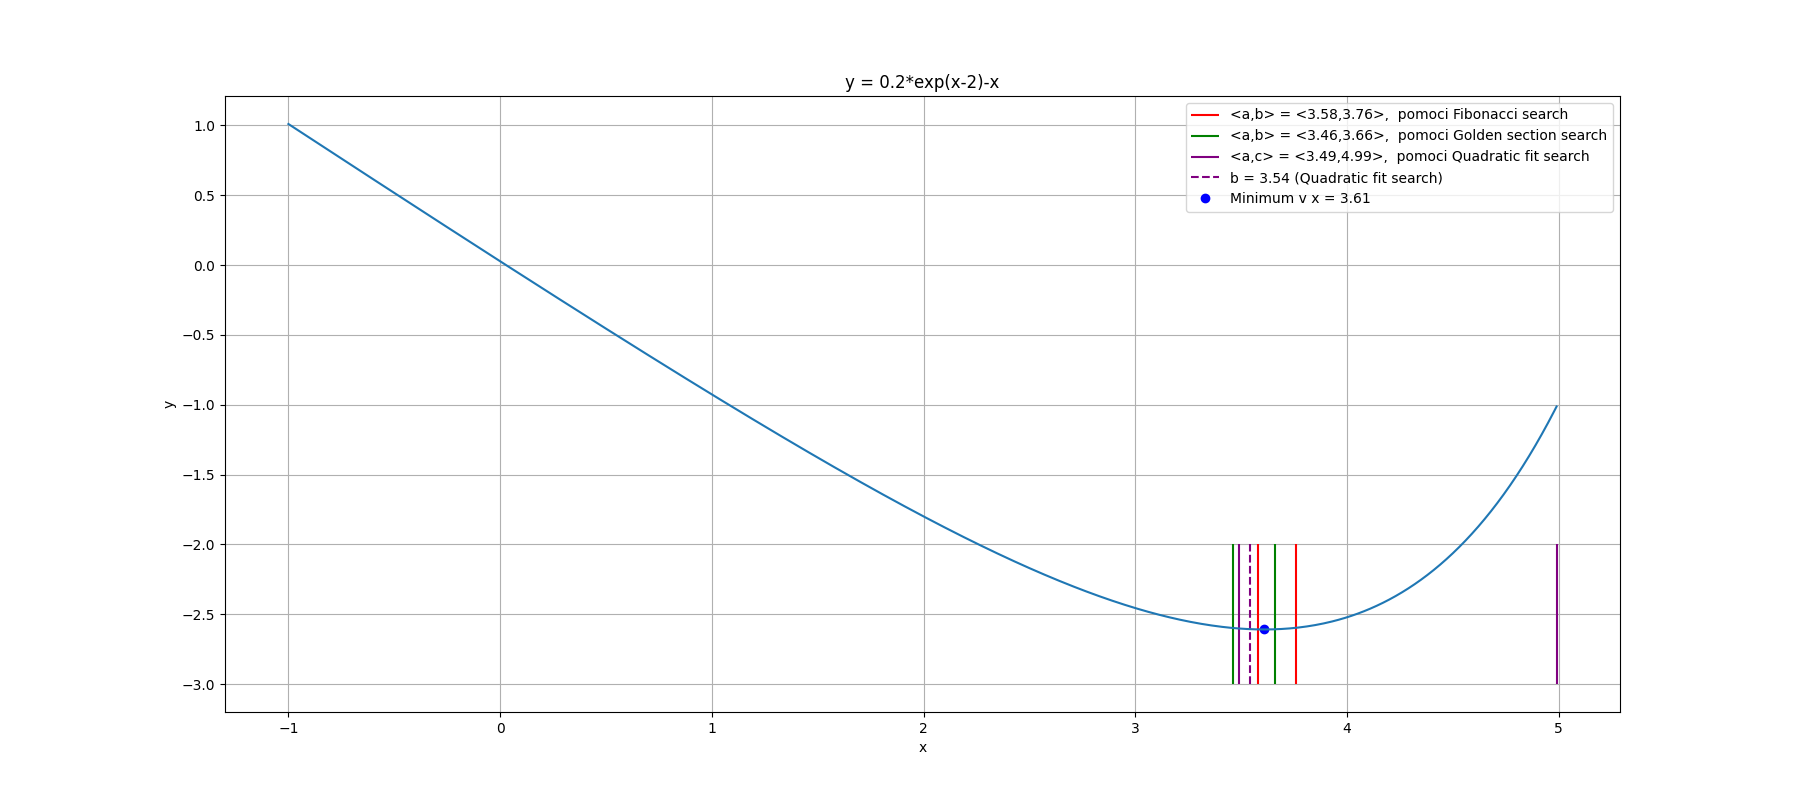
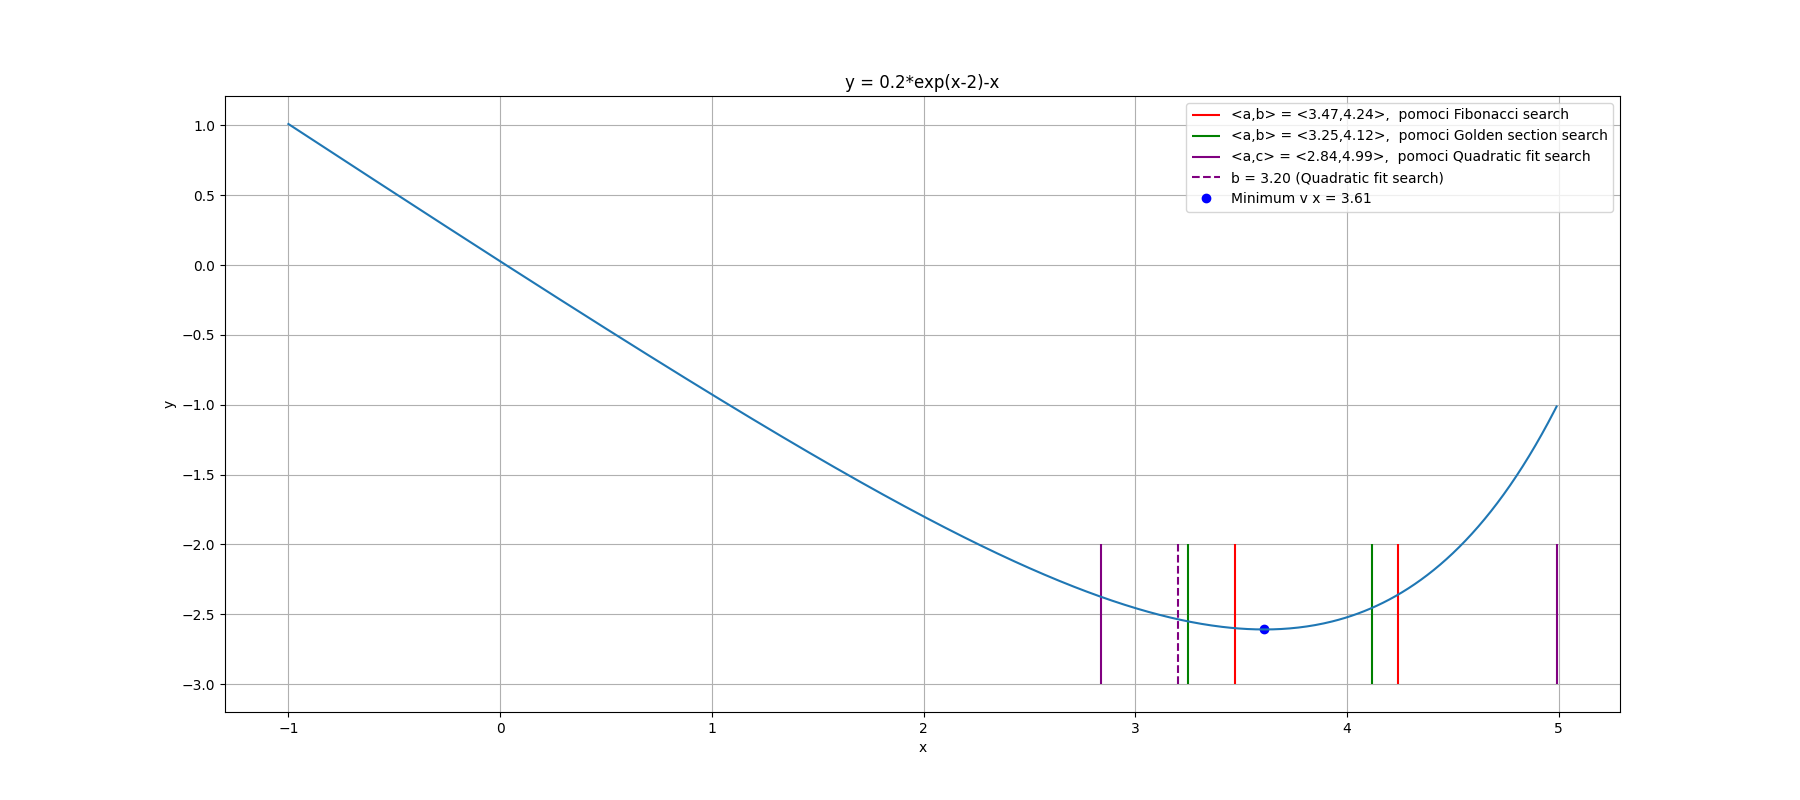
fix

Changed region(s): [[0.6844, 0.125, 0.9022, 0.25], [0.6844, 0.6875, 0.7156, 0.8438]]

diff --git a/cv1/ex1.py b/cv1/ex1.py
@@ -162,7 +162,7 @@ def QuadraticFitSearch(xf,f,a,b,c,n):
 
 if __name__ == '__main__':
 
-    n= 8
+    n= 5
 
     leftLim = -1
     rightLim = 5
